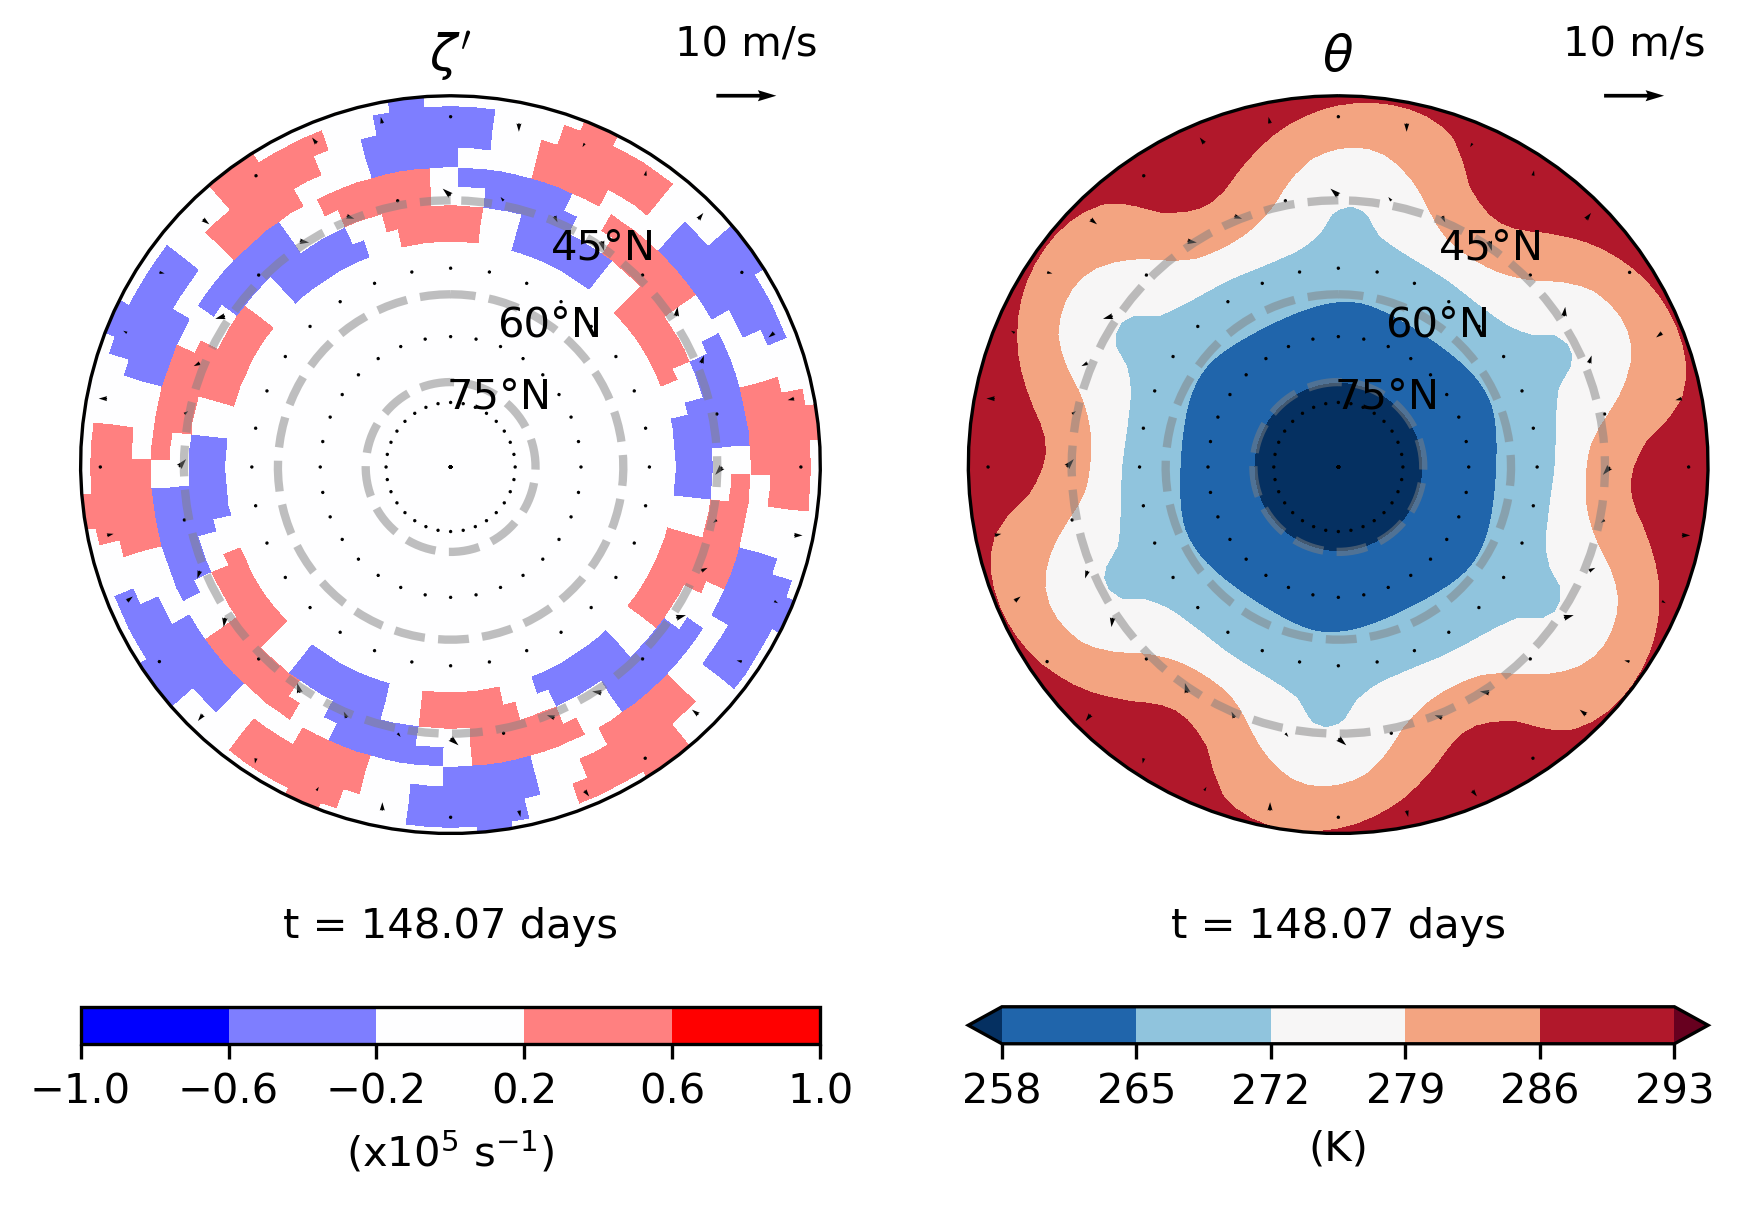
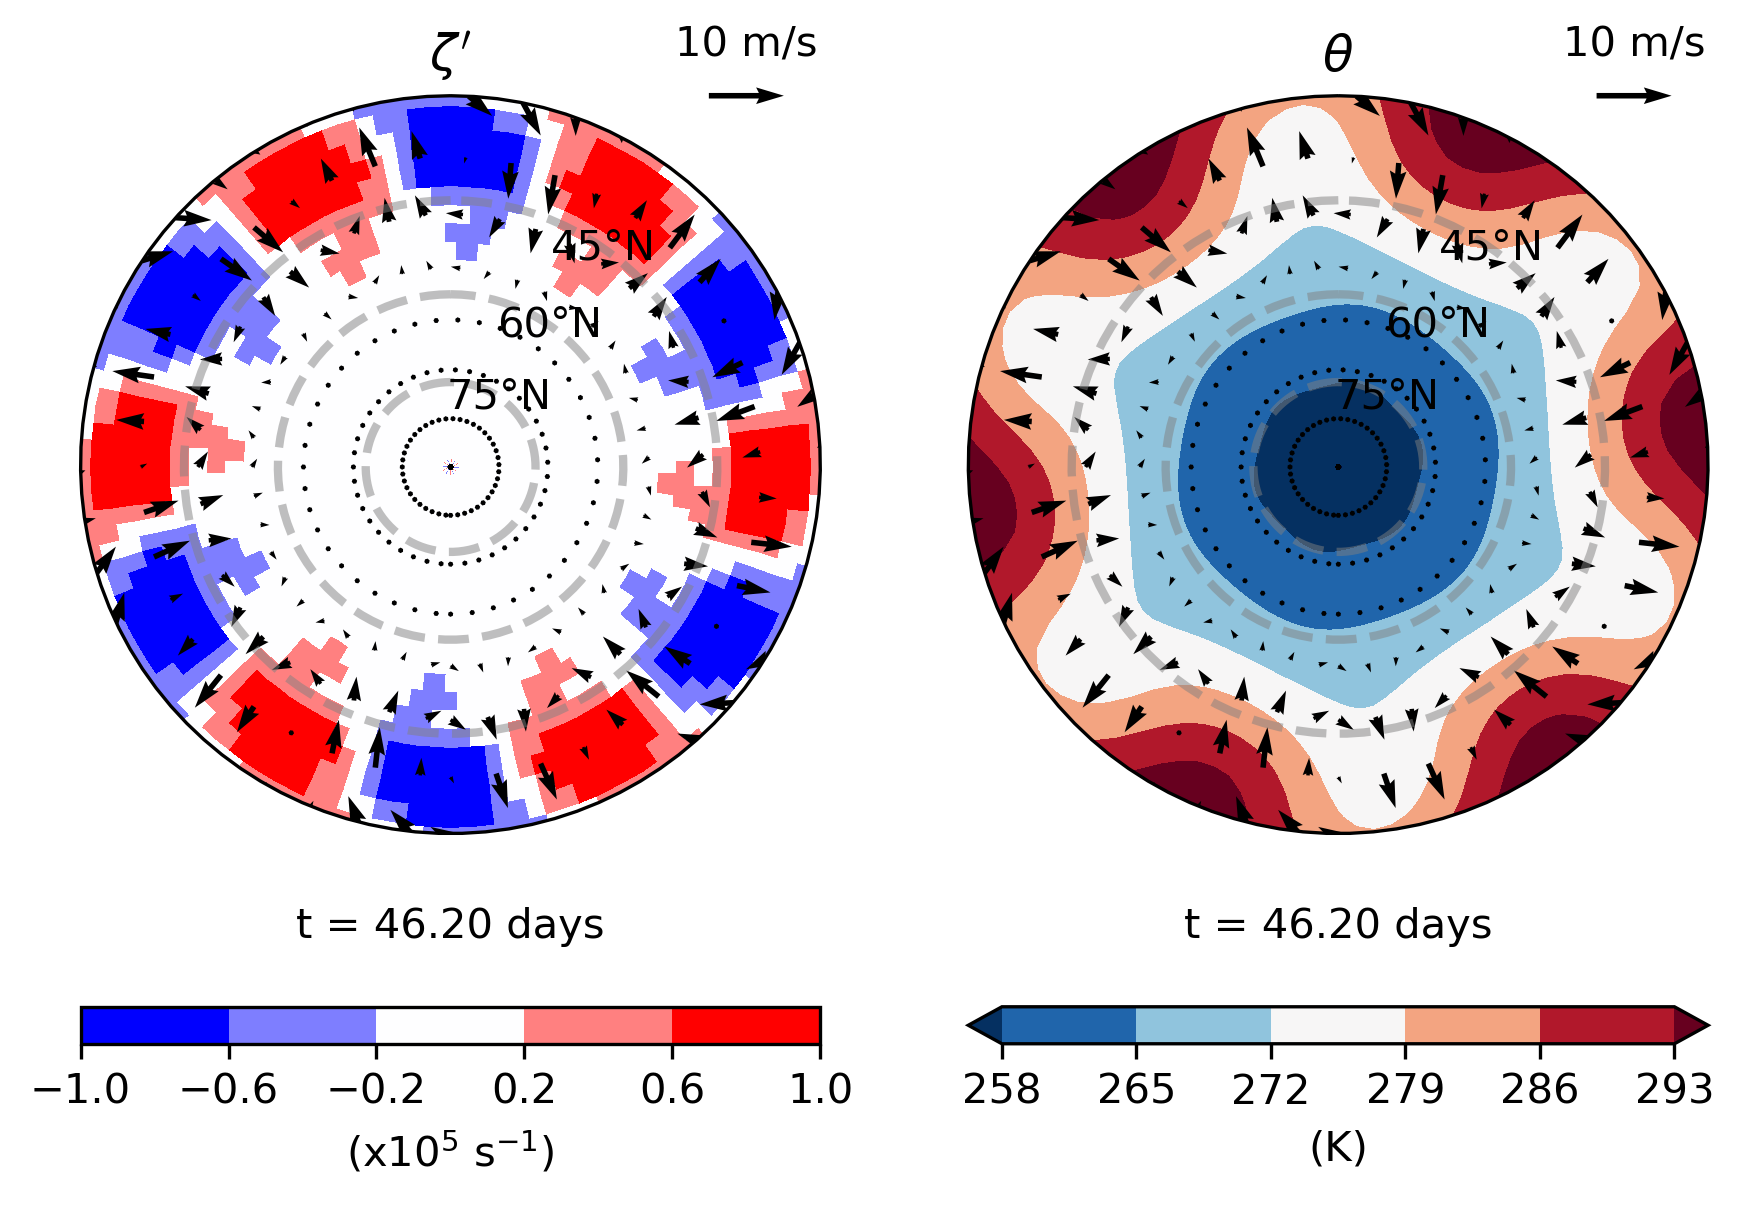
added example run animation to README

diff --git a/README.md b/README.md
@@ -24,10 +24,8 @@ where $\mathbf{v}$ is determined by the solved vorticity equation, $\kappa$ is t
 The equilibrium temperature is set to be
 $$ \theta_{eq} = \theta_0 - \Delta\theta\sin^2\phi$$
 
-#### Reproducing L18 climatology
-![Figure 1b of Linz et al (2018), representing the climatology produced by their advection-diffusion model](images/L18_fig1b.PNG)
+[An example evolution of our model. Winds are stirred stochastically, stirring the mean temperature field, creating the "flower pattern" (with the number of petals is equal to zonal wavenumber of the forcing). If the stirring amplitude is not large enough or if the memory is too low, the temperature field relaxes back to the equilibrium temperature (as seen at t=0)](./images/evo.gif)
 
-![An integration of our model](images/L18_singlerun.png)
 
 
 
@@ -71,6 +69,12 @@ with $\gamma = (\beta -\frac{\partial^2 \bar u}{\partial y^2})$, the meriodinal 
 
 This is the basis of the equation we are trying to solve. Rather than freely evolving, we now also add a forcing term $F_\zeta$ (orography, Rossby waves, etc. ) as well as a dissipation term $r_s\zeta'$, where $r_s$ represents the frictional dissipation rate. Rearranging to solve for the vorticity tendency gives:
 $$\frac{\partial\zeta '}{\partial t}= - \bar{u}\frac{\partial\zeta '}{\partial x} - v'\gamma + F_\zeta - r_s\zeta' $$
+
+#### Reproducing L18 climatology
+![Figure 1b of Linz et al (2018), representing the climatology produced by their advection-diffusion model](images/L18_fig1b.PNG)
+
+<!-- ![An integration of our model](images/L18_singlerun.png) -->
+
 
 
 ## 6. References
